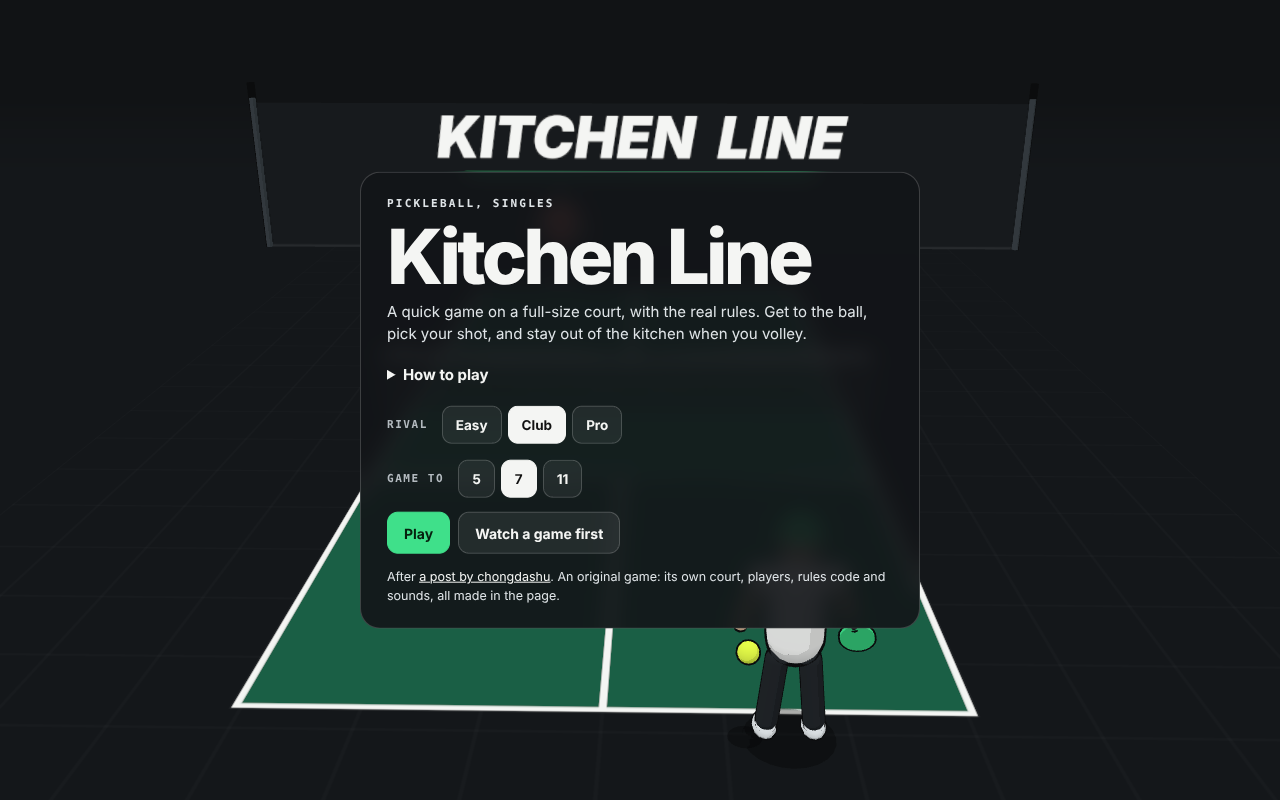
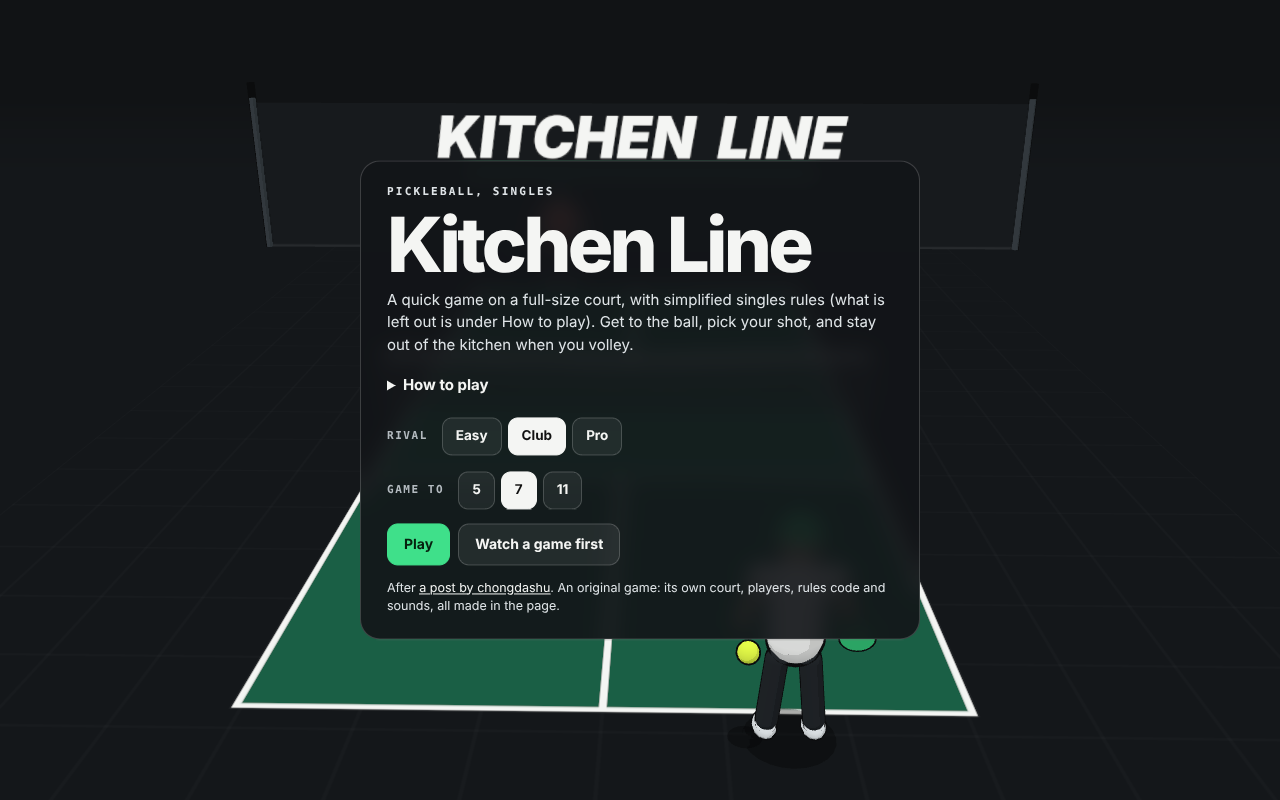
Kitchen Line: act on the outside review (ChatGPT Pro, 6/10 HOLD)
- rules.js: cap the movement direction you ask for at length 1, so two
  keys on the diagonal no longer run 41% faster than one key or a finger.
  Rules test holds six ways of moving against hand-worked values; whole
  match figures are unchanged.
- Page and README say simplified singles rules; How to play lists what
  is left out. README and REVIEW say plainly that merging puts the page
  live at its own address, unlisted but reachable.
- smoke.mjs: the whole-game check now drives the page's own key handlers
  with key events and says so; new speed check through keys and touch;
  two timing-dependent checks made load-proof without loosening them.
- REVIEW.md: Outside review section; checks run again.

Claude-Session: https://claude.ai/code/session_013B6jEDQfd86RBiChYmYX6U

Changed region(s): [[0.2812, 0.1875, 0.7188, 0.8125]]

diff --git a/demos/kitchen-line/js/rules.js b/demos/kitchen-line/js/rules.js
@@ -100,9 +100,11 @@ function intercept(m, who, lv) { const s = side(who), r = m.rally, b = { ...m.ba
   if (best) { plan.x = best.x; plan.z = best.z + s * 0.25; } else if (chase) { plan.x = chase.x; plan.z = chase.z + s * 0.3; } // nothing comfortable: run at where the ball comes down, never away from it
   return plan; }
 
-// ---- One step of the match. input is what you are doing: { mx, mz } from -1 to 1, swing: 'drive' | 'dink' | 'lob' when pressed, aim from -1 to 1, or auto: true to let the game play your side. ----
+// How hard you are asking to run, as a direction no longer than 1. Two keys held at once ask for 1 across and 1 along, which is 1.41 overall: that is cut back to 1, so running on the diagonal is no faster than running straight or running where a finger points.
+export function stick(mx, mz) { const x = clamp(Number(mx) || 0, -1, 1), z = clamp(Number(mz) || 0, -1, 1), d = Math.hypot(x, z); return d > 1 ? { mx: x / d, mz: z / d } : { mx: x, mz: z }; }
+// ---- One step of the match. input is what you are doing: { mx, mz } from -1 to 1 (a longer direction is cut back to length 1), swing: 'drive' | 'dink' | 'lob' when pressed, aim from -1 to 1, or auto: true to let the game play your side. ----
 export function step(m, dt, input = {}) { m.events = []; if (m.state === 'over') return m; m.t += dt; m.timer -= dt; const youLv = LEVELS[m.youLevel] || null;
-  const act = { p: input.auto || youLv ? think(m, 'p', youLv || LEVELS.club) : { mx: clamp(input.mx || 0, -1, 1), mz: clamp(input.mz || 0, -1, 1), swing: input.swing || null, aim: input.aim || 0 }, r: think(m, 'r', LEVELS[m.level]) };
+  const act = { p: input.auto || youLv ? think(m, 'p', youLv || LEVELS.club) : { ...stick(input.mx, input.mz), swing: input.swing || null, aim: input.aim || 0 }, r: think(m, 'r', LEVELS[m.level]) };
   const auto = { p: input.auto || !!youLv, r: true }, speed = { p: youLv ? youLv.speed : YOU.speed, r: LEVELS[m.level].speed };
   if (m.state === 'dead') { const spots = serveSpots(m.server, m.score); for (const w of ['p', 'r']) { const me = m.who[w], dx = spots[w].x - me.x, dz = spots[w].z - me.z, d = Math.hypot(dx, dz), v = Math.min(6, d / dt); me.vx = d > 1e-6 ? dx / d * v : 0; me.vz = d > 1e-6 ? dz / d * v : 0; me.x += me.vx * dt; me.z += me.vz * dt; }
     if (m.timer <= 0) { for (const w of ['p', 'r']) Object.assign(m.who[w], spots[w], { vx: 0, vz: 0, swing: 0, cool: 0 }); m.state = 'serve'; m.timer = auto[m.server] ? 0.9 : 0; m.rally = { hits: 0, last: null, bounces: 0, serve: false, since: 0, volleys: 0 }; m.call = null; m.ball.held = true; m.events.push({ type: 'ready', server: m.server }); } }

diff --git a/demos/kitchen-line/index.html b/demos/kitchen-line/index.html
@@ -4,7 +4,7 @@
 <meta charset="utf-8">
 <meta name="viewport" content="width=device-width,initial-scale=1,viewport-fit=cover">
 <title>Kitchen Line: pickleball in the browser</title>
-<meta name="description" content="A small 3D pickleball game. Singles, real rules: the two-bounce rule, the kitchen, side-out scoring. Keyboard, mouse or touch, against three levels of rival.">
+<meta name="description" content="A small 3D pickleball game. Singles, simplified rules: the two-bounce rule, the kitchen, side-out scoring. Keyboard, mouse or touch, against three levels of rival.">
 <meta name="theme-color" content="#111315">
 <link rel="icon" href="../../assets/favicon.svg" type="image/svg+xml">
 <!-- Unlisted until release is approved: remove the next line, then add the gallery card and sitemap entry. -->
@@ -86,7 +86,7 @@
 <section class="card" id="start" aria-labelledby="start-h">
   <p class="eyebrow">Pickleball, singles</p>
   <h1 id="start-h">Kitchen Line</h1>
-  <p>A quick game on a full-size court, with the real rules. Get to the ball, pick your shot, and stay out of the kitchen when you volley.</p>
+  <p>A quick game on a full-size court, with simplified singles rules (what is left out is under How to play). Get to the ball, pick your shot, and stay out of the kitchen when you volley.</p>
   <details id="how">
     <summary>How to play</summary>
     <ul>
@@ -97,6 +97,7 @@
       <li><strong>Two bounces:</strong> the serve must bounce before it is returned, and the return must bounce too. After that you may volley.</li>
       <li><strong>The kitchen:</strong> the lighter strip by the net. Never volley while standing in it.</li>
       <li><strong>Scoring:</strong> only the server scores. Lose the rally on your serve and the serve changes hands. Win by two.</li>
+      <li><strong>Left out:</strong> doubles, foot faults on the serve, and the fault for being carried into the kitchen by your own volley.</li>
       <li><strong>Pause:</strong> <kbd>P</kbd> or <kbd>Esc</kbd>. The game also pauses when you look away.</li>
     </ul>
   </details>

diff --git a/demos/kitchen-line/REVIEW.md b/demos/kitchen-line/REVIEW.md
@@ -5,7 +5,7 @@ Built 17 November 2026 by Claude Fable 5.2 in a Claude Code cloud session. Revie
 
 ## Verdict
 
-Ready for Kol to play. Not published, not in the gallery or the sitemap.
+Ready for Kol to play. A draft, unlisted: not in the gallery or the sitemap, and not on the live site yet. Merging it would put it on the live site at its own address, reachable by anyone with the link, because the site deploys whatever is merged.
 
 **Nobody has played it by hand.** The rules, the scoring and the fairness of the timing are checked by staging each case and by playing hundreds of whole matches. Whether it is fun, and whether Easy, Club and Pro feel like three levels to a person, is unproved. Treat the first game as part of the review.
 
@@ -15,32 +15,35 @@ Ready for Kol to play. Not published, not in the gallery or the sitemap.
 
 | Asked for | Result | Evidence |
 |---|---|---|
-| A browser 3D sports mini-game | Pickleball singles on a full-size court in Three.js: you against a rival at three levels, or watch the game play itself | `index.html`, `js/app.js` |
+| A browser 3D sports mini-game | Pickleball singles, simplified rules, on a full-size court in Three.js: you against a rival at three levels, or watch the game play itself | `index.html`, `js/app.js` |
 | After the chongdashu post, original | Own court, players, rules code, lettering and sounds, all made in the page. No model, picture or sound file is loaded. Credit and link on the page | `index.html`, `README.md` |
 | Kol's taste: comic-book, charcoal, white, one green | Three flat tones and a dark outline; charcoal ground; white lettering that pops where things happen; one green, on your cap, your paddle and the wall's rule | `screenshot.jpg` |
-| Own folder, own review, nothing live | `demos/kitchen-line/`, this file, `noindex`, no gallery card, no sitemap entry | `index.html` |
+| Own folder, own review, nothing live | `demos/kitchen-line/`, this file, `noindex`, no gallery card, no sitemap entry. Not live until merged; once merged it is reachable at its address though unlisted | `index.html` |
 
-## Checks run (17 Nov 2026)
+## Checks run (17 Nov 2026, run again after the outside review)
 
-Verified by running. All three passed on the code as committed.
+Verified by running. All passed on the code as committed. Matches and figures from the rules test are unchanged by the movement fix, number for number.
 
 - `node demos/kitchen-line/tools/rules.test.mjs`: pass.
   - The court is to regulation. 48 shots land where they are aimed and clear the net by their margin.
   - Every rule staged and called right: out, lines in, two bounces, net, short, kitchen, the two-bounce rule, the serve, win by two.
+  - Running is the same speed every way: one key, two keys on the diagonal, a finger on the diagonal and out-of-range input all cover 2.070 m in half a second from standing and reach 5.2 m/s (worked out by hand from the rules' own speed and easing).
   - 128 whole matches to 7 between the game's own players: all finished, 2.5 minutes each on average, 2,099 rallies of 5.1 shots on average, longest 29. They ended: ball not reached 56%, out 19%, net 18%, short 5%, serve missed 2%.
   - Points only ever to the server. No player broke a rule it knows. 1.7% of serves missed. Shots: drive 51%, dink 38%, lob 7%, smash 3%.
   - Fair play: 217 presses, from 0.4 s before the bounce of a serve to 0.1 s after it. None was called a volley; 130 struck the ball after its bounce. A swing pressed at arm's length meets the ball within 0.8 m.
   - A ball that clips the tape plays on, a serve included. 4.2% of clean baseline drives go wrong.
   - Three plain players at the controls, 12 matches each against Easy, Club and Pro: won 12, 12, 4; 12, 9, 0; 12, 9, 0. Longest rally 53. The ring on the court was right about all 16,600 balls it was checked on.
 - `node demos/kitchen-line/tools/smoke.mjs`: pass, in headless Chromium with software graphics.
-  - Starts on the card with a game behind it. Space, K, L, a click and all three buttons serve. Arrows, letters and the pointer move you.
+  - Starts on the card with a game behind it. The card says simplified singles rules and How to play lists what is left out. Space, K, L, a click and all three buttons serve. Arrows, letters and the pointer move you.
+  - Running speed through the page: one arrow key, two arrow keys held on the diagonal and a finger pointing on the diagonal all run at 5.19 m/s after 0.75 s.
   - Pointing across the net aims without moving you. Space still serves after a click on Sound.
   - A smash starts above and behind the head and comes down in front; a drive ends in front at chest height; a dink stays low; the legs stride.
-  - A whole game through the controls: scoreboard, serving dot, call and spoken line right after every rally; the result card right.
+  - A whole game played by a script that sends key events (W A S D and Space) to the page, so the page's own key handlers drive it: scoreboard, serving dot, call and spoken line right after every rally; the result card right. The events come from a script, not a person typing.
   - Pause by button, P, Escape and looking away. Watching, the players are White and Coral everywhere. The game behind the start card starts again when it ends.
   - Phones 390x800, 320x568 and 740x360, a 320 window and 1920x1080: the whole court on screen, thumb-sized buttons that cover nothing, the call clear of your rival.
   - Reduced motion, no WebGL, axe WCAG 2.2 A and AA at six sizes, no console errors, no outside requests.
-- The repo's own rules, run locally: no element wider than the page at 320, 390 and 1280; axe clean; the first three Tabs land on visible things; `python3 scripts/build-site.py` passes.
+- The repo's own rules, run locally: no element wider than the page at 320, 390 and 1280; axe clean; `python3 scripts/build-site.py` passes.
+- `tools/shots.mjs` run again; the start card picture (`thumbnail.png`) shows the new wording.
 
 ## Not verified
 
@@ -81,6 +84,22 @@ A second pass by a separate Claude agent (Opus), read-only, given the brief and 
 | 14 | Smaller: a receiver could wind up a swing during the serve; the ring disagreed with the game about the net in 25 of 204 cases; slow motion on a slow machine; lettering stayed put after a resize | Only the server swings at a serve. Ring, game and rival share one net rule (16,600 of 16,600 agree). Several steps a picture on a slow machine. Lettering clears on resize | rules test; browser check; the slow-machine case is not measured |
 
 Not changed, by choice: the first Tab on the start card lands on the court picture, and Tab past the last button leaves the page.
+
+## Outside review
+
+ChatGPT in chat mode at Pro, driven by another Claude session at the owner's request, reviewed this demo together with Shot Framer on 17 November 2026. It read the code and the pictures and did not run the page. Score 6/10, verdict HOLD for both. Only the findings about Kitchen Line, and those that apply to both demos, are dealt with here. Each was checked before anything was changed.
+
+| Finding | What was done | Held by |
+|---|---|---|
+| Keyboard players run diagonally about 41% faster than straight or by touch (2.93 m against 2.07 m in half a second) | True. Reproduced exactly: 2.928 m on two keys, 2.070 m on one key or a finger. Two keys asked for full speed across and full speed along at once. Fixed in `js/rules.js`: the direction you ask for is cut back to length 1 (`stick`) before it becomes speed, so no caller can get it wrong. Now 2.070 m every way, top speed 5.2 m/s. The game's own players and the scripted test players already asked for directions of length 1, so every whole-match figure is unchanged, number for number (128 matches, the level table, 24 of 24 for the plain player) | rules test: six ways of moving, expected values worked out by hand; browser check: one arrow key, two arrow keys and a finger on the diagonal all reach 5.2 m/s through the page |
+| The page claims the "real rules" but leaves some out, said only in the README | True. The start card and the page description now say simplified singles rules, and How to play lists what is left out: doubles, foot faults on the serve, and the fault for being carried into the kitchen by your own volley. README wording changed to match | browser check reads the card and the list |
+| The whole-match browser check injects control values, so it shows less than its "ok" line says | True. It handed movement straight to the rules, bypassing the page's keys. It now sends key events (W A S D and Space) to the page each step, so the page's own key handlers drive the whole game, and its ok line says it is a script sending key events, not a person typing. A separate check holds arrow keys down through Playwright, and sends a touch pointer event, on the diagonal (above) | browser check |
+| Green CI covers less than the pull request suggests: the demo's own suites do not run in CI | True, and not changed: wiring them into CI means editing the site's shared workflow, which is outside this folder. The checks are run by hand and listed under Checks run above | not done: needs the owner |
+| Unlisted will still mean publicly reachable once deployed | True. README Status and the verdict above now say it is a draft, not yet live, and that merging would put it on the live site at its own address, unlisted but reachable by anyone with the link | README, this file |
+| No real-device play, measured smoothness or heard sound | True, and not done: no real phone, graphics card or speakers here, and nobody has played it. Still listed under Not verified | not done |
+| No asset-licensing blocker | Agreed. Nothing loaded but the site's shared Three.js | |
+
+Found while doing this, not in the outside review: on this machine, under heavy load from other work (load average near 30 on 4 processors), two existing browser checks failed on timing. Neither was a fault in the game. The lettering check failed on the committed version of the code and checks too, not only on the changed one. The lettering check waited a fixed 0.15 s for the page to hear of a new window size; the event came as much as 2.5 s late, and the lettering fades by itself after 0.95 s. It now holds off the fading for the check and reads the count the moment the page hears of the new size, so only the resize handler can clear it (shown to fail with that handler removed). The phone check of a finger moving you took 100 steps when the run needs about 70, and the page's own clock adds steps on a loaded machine, so the rally sometimes ended and you were walked back to serve; it now takes 75 steps and first checks the rally is still on. Touch movement is untouched by the speed fix (a finger already asked for a direction of length 1), and the same steps run on their own passed six times in six, three on the committed code and three on the changed code.
 
 ## Provenance
 

diff --git a/demos/kitchen-line/README.md b/demos/kitchen-line/README.md
@@ -1,11 +1,11 @@
 # Kitchen Line
 
-A small 3D pickleball game for the browser. Singles on a full-size court, with the real rules: the two-bounce rule, the kitchen, side-out scoring, win by two. Keyboard, mouse or touch, against a rival at three levels. Demo 11 of Kol's Fable 5.2 benchmark list, built with Claude Fable 5.2.
+A small 3D pickleball game for the browser. Singles on a full-size court, with simplified singles rules: the two-bounce rule, the kitchen, side-out scoring, win by two. Some rules are left out; the list is below and on the page under How to play. Keyboard, mouse or touch, against a rival at three levels. Demo 11 of Kol's Fable 5.2 benchmark list, built with Claude Fable 5.2.
 
 After [a post by chongdashu](https://x.com/chongdashu/status/2120154573356793883) about a pickleball game in Three.js. This is an original game: its own court, players, rules code and sounds, all made in the page. No model, picture or sound file is loaded.
 
 **Quality bar it sets:** a game whose rules are a module that plays whole matches without a browser, so every rule is staged and checked one at a time, hundreds of matches are played to the end as a check, and the controls are proved playable by a plain hand-written player before anybody picks it up.
-Use it as the reference for browser games with real rules.
+Use it as the reference for browser games that keep a sport's rules.
 
 ## Playing
 
@@ -17,7 +17,7 @@ Use it as the reference for browser games with real rules.
 - **Pause:** P or Esc, or the button. The game also pauses when you look away.
 - **Watch a game first** plays one for you.
 
-## The rules it keeps
+## The rules it keeps (simplified singles)
 
 - The court is 20 by 44 feet with a 7 foot kitchen each side of a net 34 inches high at the middle and 36 at the posts.
 - The serve is from behind the baseline, from your right-hand court when your score is even and your left when it is odd, to the court on the diagonal. It must land beyond the kitchen line.
@@ -27,7 +27,7 @@ Use it as the reference for browser games with real rules.
 - A ball that clips the top of the net and goes over is in play, a serve included: there is no let.
 - Only the server scores. Lose the rally on your serve and the serve changes hands. First to 5, 7 or 11, and win by two.
 
-Left out, on purpose: doubles, foot faults on the serve, and the rule that a volley is a fault if it then carries you forward into the kitchen.
+Left out, on purpose: doubles, foot faults on the serve, and the rule that a volley is a fault if it then carries you forward into the kitchen. The page says the same under How to play.
 
 ## How it is made
 
@@ -84,4 +84,4 @@ The second and third need the site's development packages (Playwright and axe-co
 
 ## Status
 
-Unlisted. The page carries `noindex`, and it is not in the gallery or the sitemap. Nothing here is published.
+Unlisted, and a draft. The page carries `noindex`, and it is not in the gallery or the sitemap. It is not on the live site yet. The site deploys whatever is merged, so merging this would put the page on the live site at its own address (`/demos/kitchen-line/`): still unlisted and not indexed, but reachable by anyone who has the link.
